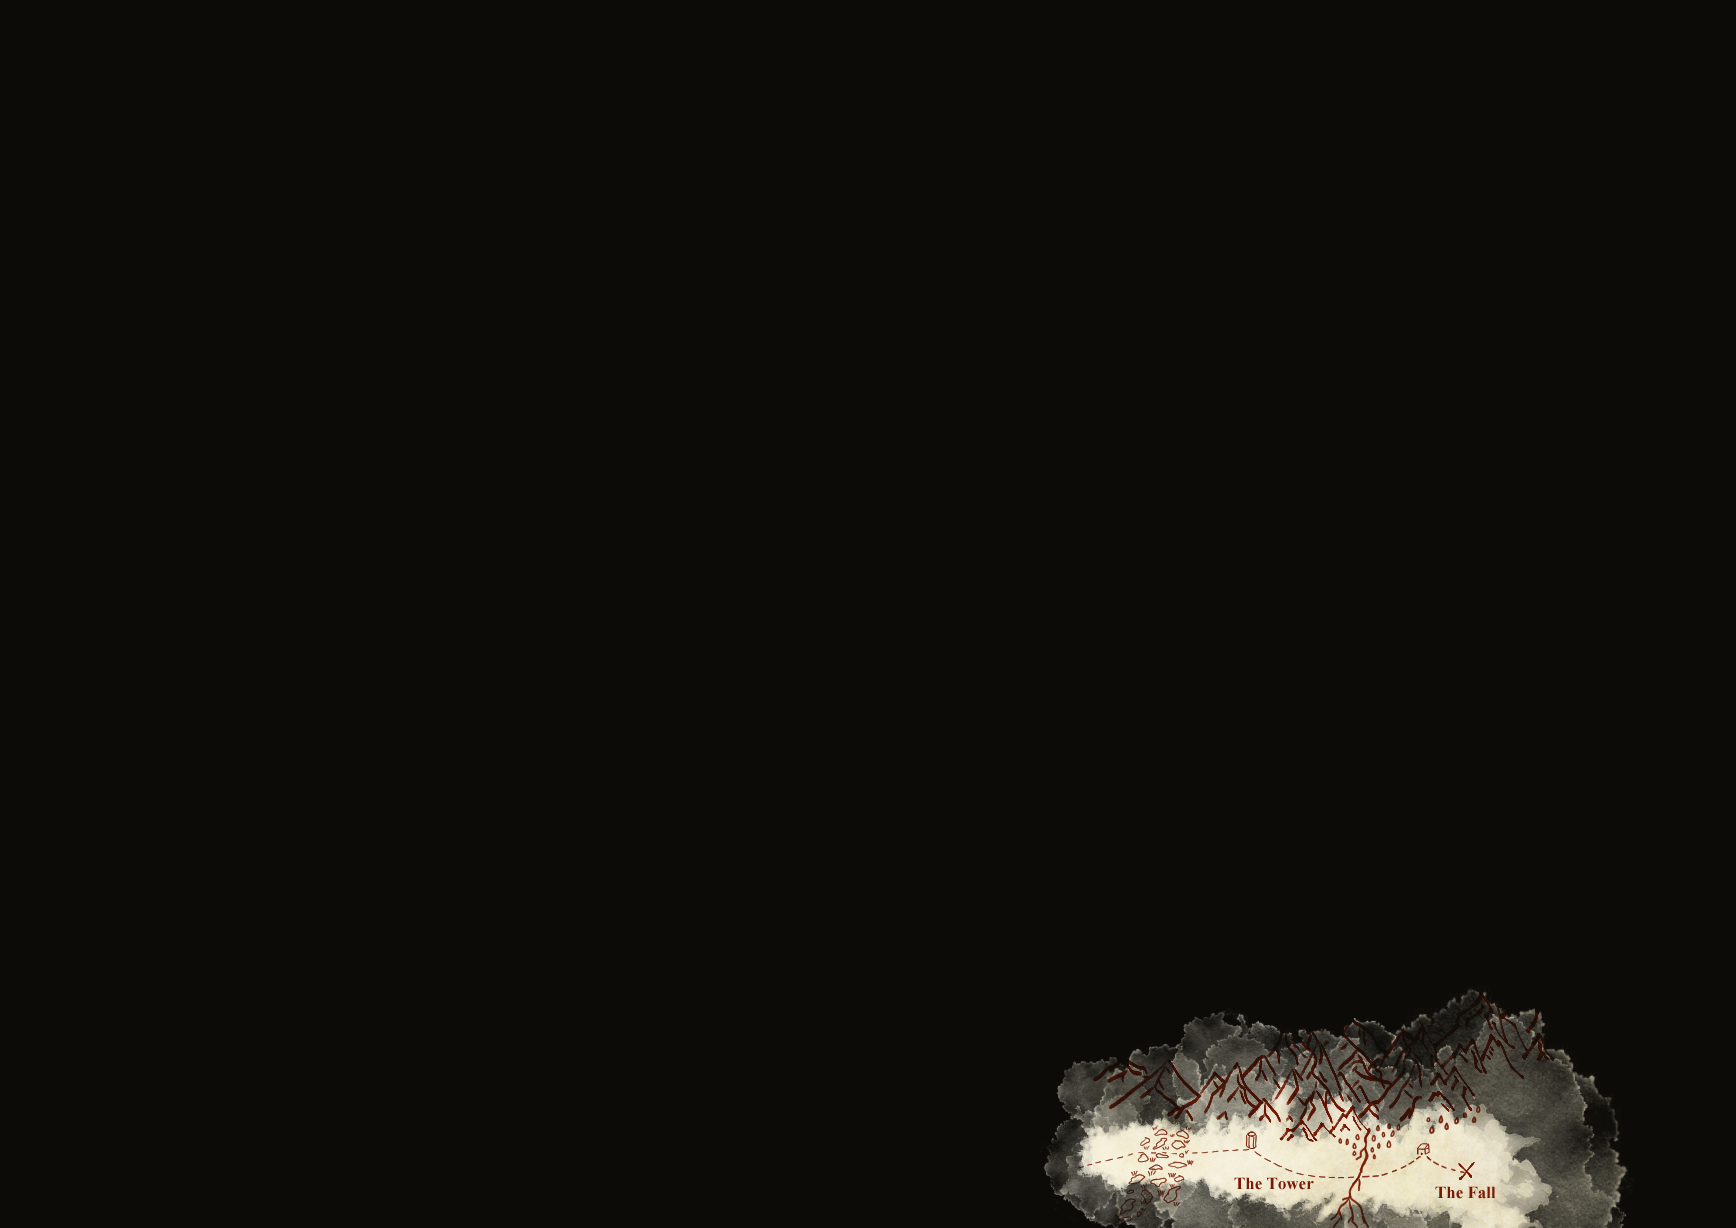
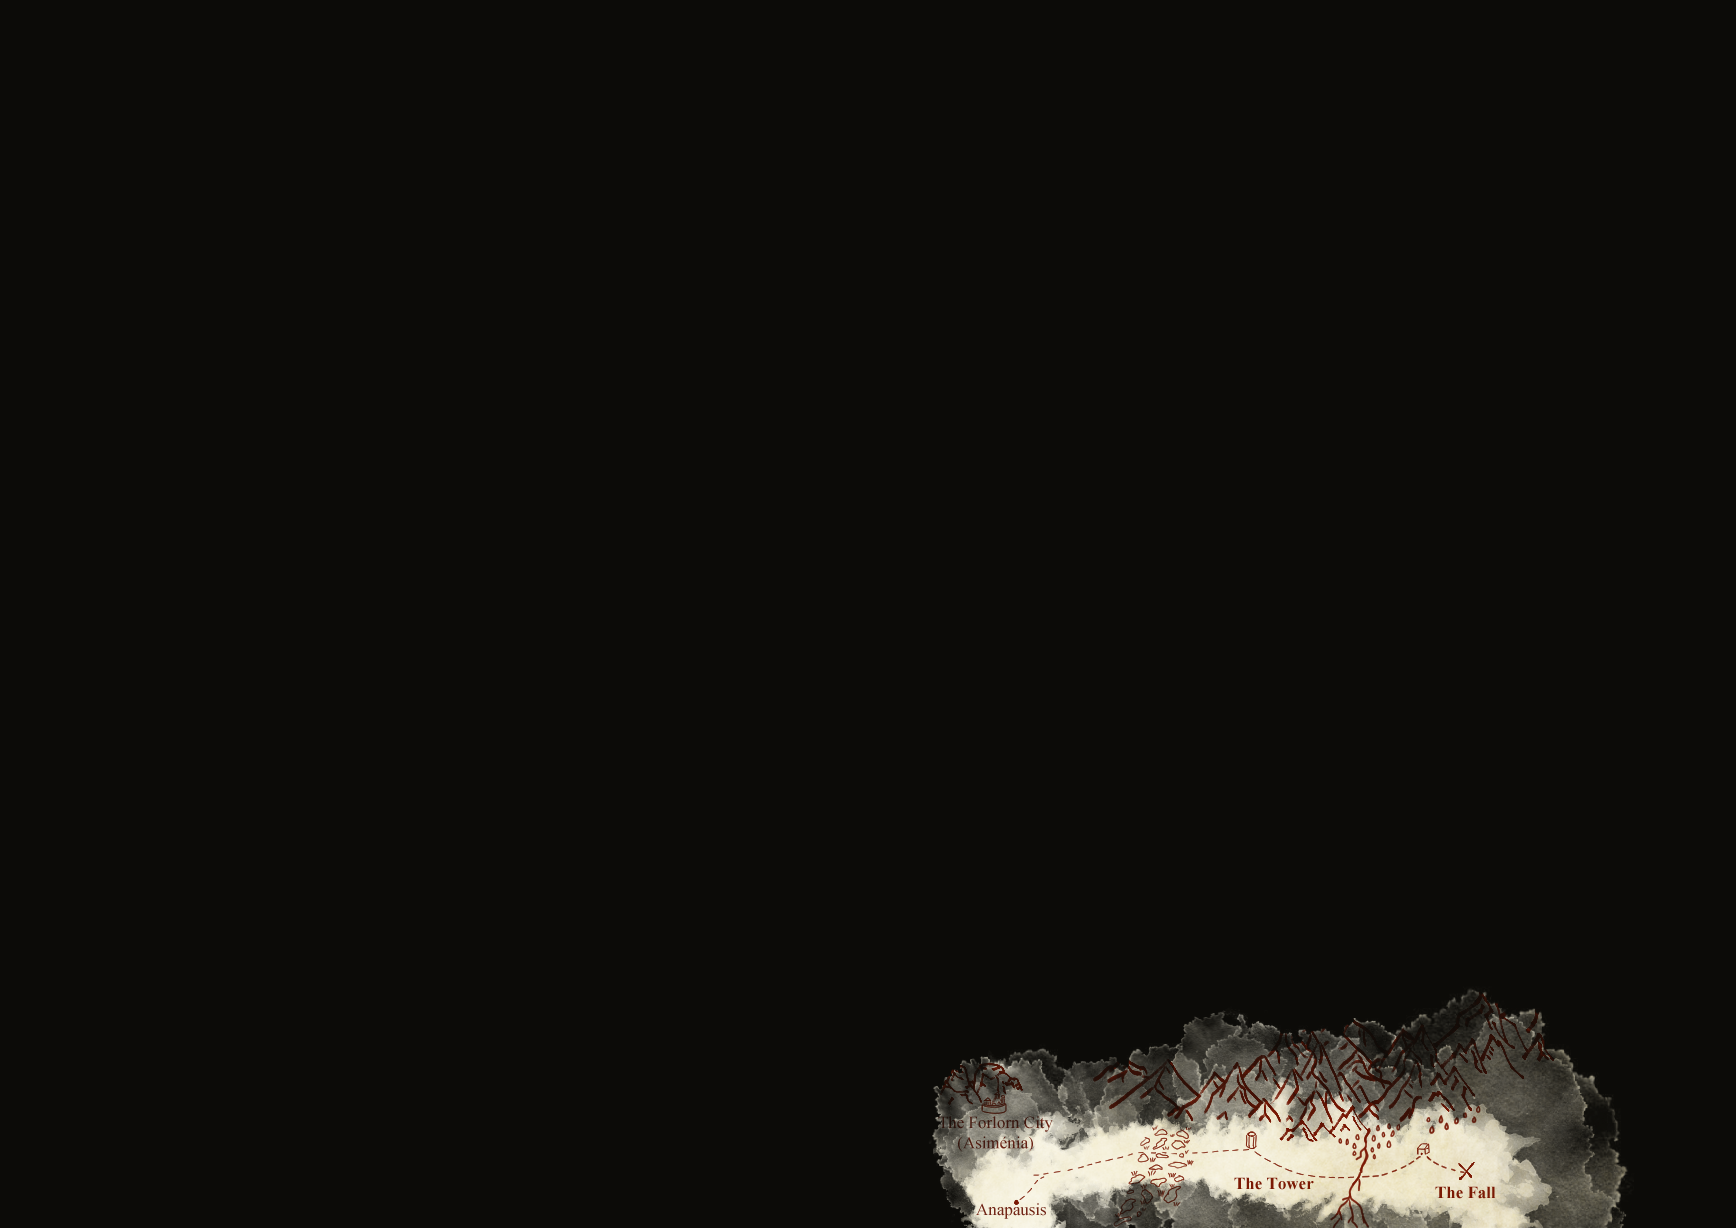
Adding images and updates

Changed region(s): [[0.5288, 0.8355, 0.6532, 1.0]]

diff --git a/_imperium/obj8.md b/_imperium/obj8.md
@@ -1,0 +1,16 @@
+---
+pid: obj8
+artist: Sadikos, The Laughing Shade
+location: Theia
+label: Map of Crixus
+_date: Anno 3536
+object_type: map
+current_location: Crixus, Hypernotus
+source: 
+order: '7'
+layout: imperium_item
+collection: imperium
+thumbnail: "/img/derivatives/iiif/images/obj8/full/250,/0/default.jpg"
+manifest: "/img/derivatives/iiif/obj8/manifest.json"
+full: "/img/derivatives/iiif/images/obj8/full/1140,/0/default.jpg"
+---

diff --git a/_imperium/obj2.md b/_imperium/obj2.md
@@ -1,6 +1,6 @@
 ---
 pid: obj2
-artist: The Lost
+artist: Sadikos, The Laughing Shade
 location: Theia
 label: Map of the Journey of 'The Lost'
 _date: Anno 3536
@@ -12,5 +12,5 @@ layout: imperium_item
 collection: imperium
 thumbnail: "/img/derivatives/iiif/images/obj2/full/250,/0/default.jpg"
 manifest: "/img/derivatives/iiif/obj2/manifest.json"
-full: ''
+full: "/img/derivatives/iiif/images/obj2/full/1140,/0/default.jpg"
 ---
